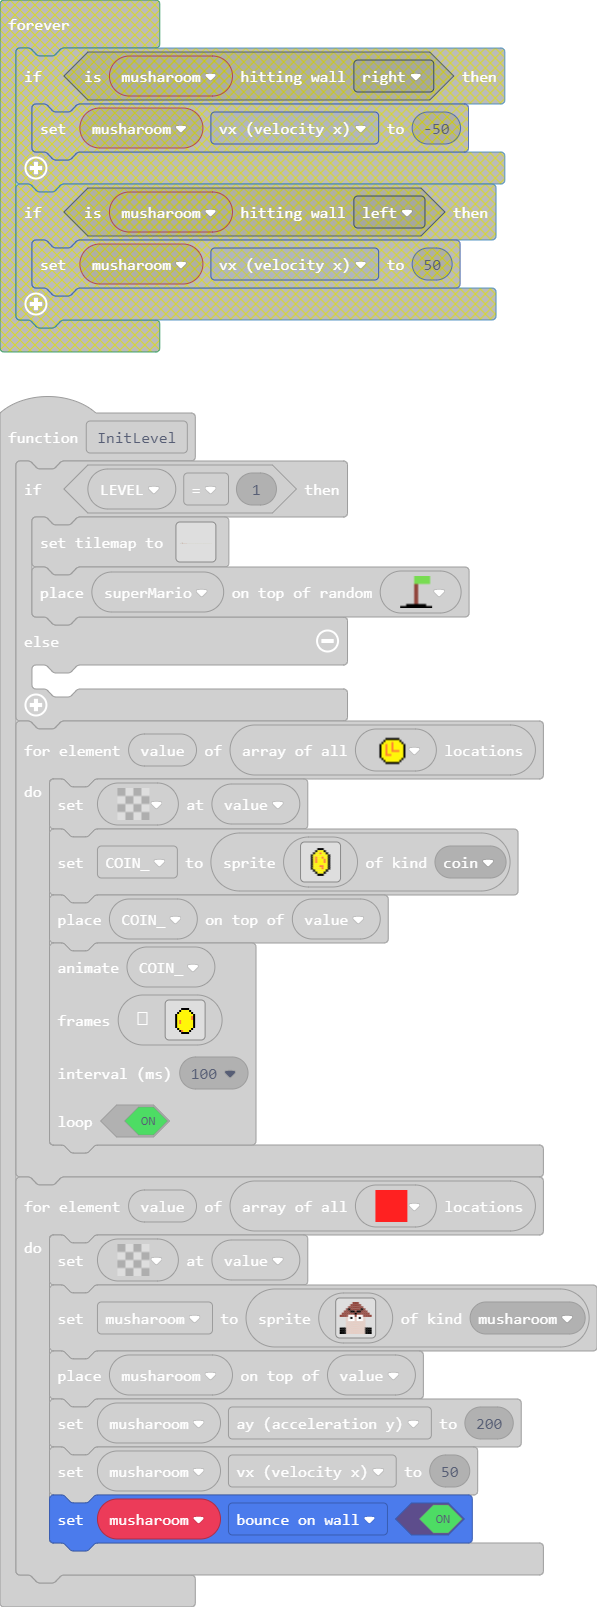
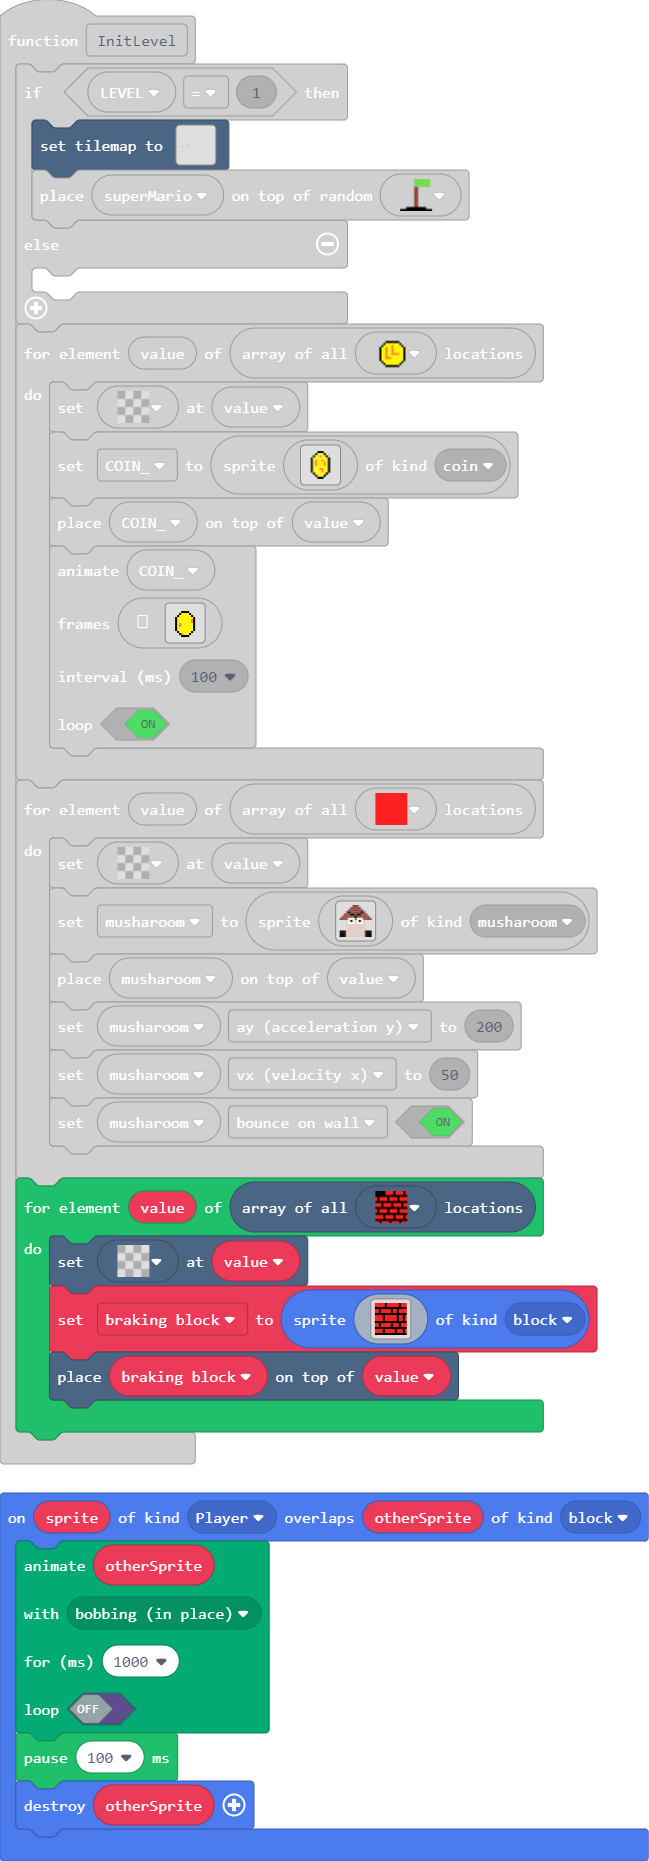
started blocks

diff --git a/main.ts b/main.ts
@@ -1,6 +1,7 @@
 namespace SpriteKind {
     export const coin = SpriteKind.create()
     export const musharoom = SpriteKind.create()
+    export const block = SpriteKind.create()
 }
 namespace myTiles {
     //% blockIdentity=images._tile
@@ -98,6 +99,25 @@ f f f f f f f f f f f f f f f f
 2 2 2 2 2 2 2 2 2 2 2 2 2 2 2 2 
 2 2 2 2 2 2 2 2 2 2 2 2 2 2 2 2 
 `
+    //% blockIdentity=images._tile
+    export const tile5 = img`
+f f f f f 2 2 2 2 f 2 2 2 2 f 2 
+f f f f f 2 2 2 2 f 2 2 2 2 f 2 
+f f f f f f f f f f f f f f f f 
+2 f 2 2 2 2 f 2 2 2 2 f 2 2 2 2 
+2 f 2 2 2 2 f 2 2 2 2 f 2 2 2 2 
+f f f f f f f f f f f f f f f f 
+2 2 2 f 2 2 2 2 f 2 2 2 2 f 2 2 
+2 2 2 f 2 2 2 2 f 2 2 2 2 f 2 2 
+f f f f f f f f f f f f f f f f 
+2 f 2 2 2 2 f 2 2 2 2 f 2 2 2 2 
+2 f 2 2 2 2 f 2 2 2 2 f 2 2 2 2 
+f f f f f f f f f f f f f f f f 
+2 2 2 2 f 2 2 2 2 f 2 2 2 2 f 2 
+2 2 2 2 f 2 2 2 2 f 2 2 2 2 f 2 
+f f f f f f f f f f f f f f f f 
+2 2 f 2 2 2 2 f 2 2 2 2 f 2 2 2 
+`
 }
 sprites.onOverlap(SpriteKind.Player, SpriteKind.coin, function (sprite, otherSprite) {
     otherSprite.destroy()
@@ -107,6 +127,16 @@ controller.A.onEvent(ControllerButtonEvent.Pressed, function () {
     if (superMario.vy == 0) {
         superMario.vy = -115
     }
+})
+sprites.onOverlap(SpriteKind.Player, SpriteKind.block, function (sprite, otherSprite) {
+    animation.runMovementAnimation(
+    otherSprite,
+    animation.animationPresets(animation.bobbing),
+    1000,
+    false
+    )
+    pause(100)
+    otherSprite.destroy()
 })
 sprites.onOverlap(SpriteKind.Player, SpriteKind.musharoom, function (sprite, otherSprite) {
     if (superMario.y > otherSprite.y) {
@@ -118,7 +148,7 @@ sprites.onOverlap(SpriteKind.Player, SpriteKind.musharoom, function (sprite, oth
 function InitLevel () {
     if (LEVEL == 1) {
         tiles.setTilemap(tiles.createTilemap(
-            hex`640017000000000000000000000000000000000000000000000000000000000000000000000000000000000000000000000000000000000000000000000000000000000000000000000000000000000000000000000000000000000000000000000000000000000000000000000000000000000000000000000000000000000000000000000000000000000000000000000000000000000000000000000000000000000000000000000000000000000000000000000000000000000000000000000000000000000000000000000000000000000000000000000000000000000000000000000000000000000000000000000000000000000000000000000000000000000000000000000000000000000000000000000000000000000000000000000000000000000000000000000000000000000000000000000000000000000000000000000000000000000000000000000000000000000000000000000000000000000000000000000000000000000000000000000000000000000000000000000000000000000000000000000000000000000000000000000000000000000000000000000000000000000000000000000000000000000000000000000000000000000000000000000000000000000000000000000000000000000000000000000000000000000000000000000000000000000000000000000000000000000000000000000000000000000000000000000000000000000000000000000000000000000000000000000000000000000000000000000000000000000000000000000000000000000000000000000000000000000000000000000000000000000000000000000000000000000000000000000000000000000000000000000000000000000000000000000000000000000000000000000000000000000000000000000000000000000000000000000000000000000000000000000000000000000000000000000000000000000000000000000000000000000000000000000000000000000000000000000000000000000000000000000000000000000000000000000000000000000000000000000000000000000000000000000000000000000000000000000000000000000000000000000000000000000000000000000000000000000000000000000000000000000000000000000000000000000000000000000000000000000000000000000000000000000000000000000000000000000000000000000000000000000000000000000000000000000000000000000000000000000000000000000000000000000000000000000000000000000000000000000000000000000000000000000000000000000000000000000000000000000000000000000000000000000000000000000000000000000000000000000000000000000000000000000000000000000000000000000000000000000000000000000000000000000000000000000000000000000000000000000000000000000000000000000000000000000000000000000000000000000000000000000000000000000000000000000000000000000000000000000000000000000000000000000000000000000000000000000000000000000000000000000000000000000000000000000000000000000000000000000000000000000000000000000000000000000000000000000000000000000000000000000000000000000000000000000000000000000000000000000000000000000000000000000000000000000000000000000000000000000000000000000000000000000000000000000004000000000000000000000000000000000000000000000000000000000000000000000000000000000000000000000000000000000000000000000000000000000000000000000000000000000000000000000000000000000000000000000000000000000000000000000000000000000000000000000000000000000000000000000000000000000000000000000000000000000000000000000000000000000000000000000000000000000000000000000000000000000000000000000000000000000000000200040000000000000000000000000000000000000000000000000000000000000000000000000000000000000000000000000000000000000000000000000000000000000000000000000000000000000000000000000000000000000003000000000002020200040000020000050000020000000000000000000000000000000000000000000000000000000000000000000000000000000000000000000000000000000000000000000000000000000000000000000000000000000000000000010101010101010101010101010101010101010101010101010101010101010101010101010101010101010101010101010101010101010101010101010101010101010101010101010101010101010101010101010101010101010101010101010101010000000000000000000000000000000000000000000000000000000000000000000000000000000000000000000000000000000000000000000000000000000000000000000000000000000000000000000000000000000000000000000000000000000000000000000000000000000000000000000000000000000000000000000000000000000000000000000000000000000000000000000000000000000000000000000000000000000000000000000000000000000000000000000000000000000000000000000000000000000000000000000000000000000000000000000000000000000000000000000000000000000000000000000000000000000000000000000000000000000000000000000000000000000000000000000000000000000000000000000000000000000000000000000000000000000000000000000000000000000000000000000000000000000000000000000000000000000000000000000000000000000000000000000000000000000000000000000000000000000000000000000000000000000000000000000000000000000000000000000000000000000000000000000000000000000000000000000000000000000000000000000000000000000000000000000000000000000000000000000000000000000000000000000000000000000000000000`,
+            hex`640017000000000000000000000000000000000000000000000000000000000000000000000000000000000000000000000000000000000000000000000000000000000000000000000000000000000000000000000000000000000000000000000000000000000000000000000000000000000000000000000000000000000000000000000000000000000000000000000000000000000000000000000000000000000000000000000000000000000000000000000000000000000000000000000000000000000000000000000000000000000000000000000000000000000000000000000000000000000000000000000000000000000000000000000000000000000000000000000000000000000000000000000000000000000000000000000000000000000000000000000000000000000000000000000000000000000000000000000000000000000000000000000000000000000000000000000000000000000000000000000000000000000000000000000000000000000000000000000000000000000000000000000000000000000000000000000000000000000000000000000000000000000000000000000000000000000000000000000000000000000000000000000000000000000000000000000000000000000000000000000000000000000000000000000000000000000000000000000000000000000000000000000000000000000000000000000000000000000000000000000000000000000000000000000000000000000000000000000000000000000000000000000000000000000000000000000000000000000000000000000000000000000000000000000000000000000000000000000000000000000000000000000000000000000000000000000000000000000000000000000000000000000000000000000000000000000000000000000000000000000000000000000000000000000000000000000000000000000000000000000000000000000000000000000000000000000000000000000000000000000000000000000000000000000000000000000000000000000000000000000000000000000000000000000000000000000000000000000000000000000000000000000000000000000000000000000000000000000000000000000000000000000000000000000000000000000000000000000000000000000000000000000000000000000000000000000000000000000000000000000000000000000000000000000000000000000000000000000000000000000000000000000000000000000000000000000000000000000000000000000000000000000000000000000000000000000000000000000000000000000000000000000000000000000000000000000000000000000000000000000000000000000000000000000000000000000000000000000000000000000000000000000000000000000000000000000000000000000000000000000000000000000000000000000000000000000000000000000000000000000000000000000000000000000000000000020000000000000000000000000000000000000000000000000000000000000000000000000000000000000000000000000000000000000000000000000000000000000000000000000000000000000000000000000000000000000000000000000000000200000000000000000000000000000000000000000000000000000000000000000000000000000000000000000000000000000000000000000000000000000000000000000000000000000000000000000004000000000000000000000000000000000002000000000000000000000000000000000000000000000000000000000000000000000000000000000000000000000000000000000000000000000000000000000000000000000000000000000000000000000000000000000000000000000000000000060606060000000000000000000000000000000000000000000000000000000000000000000000000000000000000000000000000000000000000000000000000000000000000000000000000000000000000200040000000000000000000000000000000000000000000000000000000000000000000000000000000000000000000000000000000000000000000000000000000000000000000000000000000000000000000000000000000000000003000000000002020200040000020000050000020000000000000000000000000000000000000000000000000000000000000000000000000000000000000000000000000000000000000000000000000000000000000000000000000000000000000000010101010101010101010101010101010101010101010101010101010101010101010101010101010101010101010101010101010101010101010101010101010101010101010101010101010101010101010101010101010101010101010101010101010000000000000000000000000000000000000000000000000000000000000000000000000000000000000000000000000000000000000000000000000000000000000000000000000000000000000000000000000000000000000000000000000000000000000000000000000000000000000000000000000000000000000000000000000000000000000000000000000000000000000000000000000000000000000000000000000000000000000000000000000000000000000000000000000000000000000000000000000000000000000000000000000000000000000000000000000000000000000000000000000000000000000000000000000000000000000000000000000000000000000000000000000000000000000000000000000000000000000000000000000000000000000000000000000000000000000000000000000000000000000000000000000000000000000000000000000000000000000000000000000000000000000000000000000000000000000000000000000000000000000000000000000000000000000000000000000000000000000000000000000000000000000000000000000000000000000000000000000000000000000000000000000000000000000000000000000000000000000000000000000000000000000000000000000000000000000000`,
             img`
 . . . . . . . . . . . . . . . . . . . . . . . . . . . . . . . . . . . . . . . . . . . . . . . . . . . . . . . . . . . . . . . . . . . . . . . . . . . . . . . . . . . . . . . . . . . . . . . . . . . . 
 . . . . . . . . . . . . . . . . . . . . . . . . . . . . . . . . . . . . . . . . . . . . . . . . . . . . . . . . . . . . . . . . . . . . . . . . . . . . . . . . . . . . . . . . . . . . . . . . . . . . 
@@ -131,9 +161,9 @@ function InitLevel () {
 . . . . . . . . . . . . . . . . . . . . . . . . . . . . . . . . . . . . . . . . . . . . . . . . . . . . . . . . . . . . . . . . . . . . . . . . . . . . . . . . . . . . . . . . . . . . . . . . . . . . 
 . . . . . . . . . . . . . . . . . . . . . . . . . . . . . . . . . . . . . . . . . . . . . . . . . . . . . . . . . . . . . . . . . . . . . . . . . . . . . . . . . . . . . . . . . . . . . . . . . . . . 
 . . . . . . . . . . . . . . . . . . . . . . . . . . . . . . . . . . . . . . . . . . . . . . . . . . . . . . . . . . . . . . . . . . . . . . . . . . . . . . . . . . . . . . . . . . . . . . . . . . . . 
-. . . . . . . . . . . . . . . . . . . . . . . . . . . . . . . . . . . . . . . . . . . . . . . . . . . . . . . . . . . . . . . . . . . . . . . . . . . . . . . . . . . . . . . . . . . . . . . . . . . . 
-. . . . . . . . . . . . . . . . . . . . . . . . . . . . . . . . . . . . . . . . . . . . . . . . . . . . . . . . . . . . . . . . . . . . . . . . . . . . . . . . . . . . . . . . . . . . . . . . . . . . 
-. . . . . . . . . . . . . . . . . . . . . . . . . . . . . . . . . . . . . . . . . . . . . . . . . . . . . . . . . . . . . . . . . . . . . . . . . . . . . . . . . . . . . . . . . . . . . . . . . . . . 
+. . . . . . . . . . . . . . . . . . . . . . . . 2 . . . . . . . . . . . . . . . . . . . . . . . . . . . . . . . . . . . . . . . . . . . . . . . . . . . . . . . . . . . . . . . . . . . . . . . . . . . 
+. . . . . . . . . . . . . . . . . . . . . . . . 2 . . . . . . . . . . . . . . . . . . . . . . . . . . . . . . . . . . . . . . . . . . . . . . . . . . . . . . . . . . . . . . . . . . . . . . . . . . . 
+. . . . . . . . . . . . . . . . . . . . . . . . 2 . . . . . . . . . . . . . . . . . . . . . . . . . . . . . . . . . . . . . . . . . . . . . . . . . . . . . . . . . . . . . . . . . . . . . . . . . . . 
 . . . . . . . . . . . . . . . . . . . . . . . . . . . . . . . . . . . . . . . . . . . . . . . . . . . . . . . . . . . . . . . . . . . . . . . . . . . . . . . . . . . . . . . . . . . . . . . . . . . . 
 . . . . . . 2 . . . . . . . . . . . . . . . . . . . . . . . . . . . . . . . . . . . . . . . . . . . . . . . . . . . . . . . . . . . . . . . . . . . . . . . . . . . . . . . . . . . . . . . . . . . . . 
 . . . . . . 2 2 2 . . . . 2 . . . . . 2 . . . . . . . . . . . . . . . . . . . . . . . . . . . . . . . . . . . . . . . . . . . . . . . . . . . . . . . . . . . . . . . . . . . . . . . . . . . . . . . . 
@@ -144,7 +174,7 @@ function InitLevel () {
 . . . . . . . . . . . . . . . . . . . . . . . . . . . . . . . . . . . . . . . . . . . . . . . . . . . . . . . . . . . . . . . . . . . . . . . . . . . . . . . . . . . . . . . . . . . . . . . . . . . . 
 . . . . . . . . . . . . . . . . . . . . . . . . . . . . . . . . . . . . . . . . . . . . . . . . . . . . . . . . . . . . . . . . . . . . . . . . . . . . . . . . . . . . . . . . . . . . . . . . . . . . 
 `,
-            [myTiles.tile0,sprites.castle.tilePath2,myTiles.tile1,myTiles.tile2,myTiles.tile3,myTiles.tile4],
+            [myTiles.tile0,sprites.castle.tilePath2,myTiles.tile1,myTiles.tile2,myTiles.tile3,myTiles.tile4,myTiles.tile5],
             TileScale.Sixteen
         ))
         tiles.placeOnRandomTile(superMario, myTiles.tile2)
@@ -338,7 +368,30 @@ f f f d d d d d d d d d f f f
         musharoom.vx = 50
         musharoom.setFlag(SpriteFlag.BounceOnWall, true)
     }
+    for (let value of tiles.getTilesByType(myTiles.tile5)) {
+        tiles.setTileAt(value, myTiles.tile0)
+        braking_block = sprites.create(img`
+2 2 2 2 2 f 2 2 2 2 2 2 f 2 2 2 
+2 2 2 2 2 f 2 2 2 2 2 2 f 2 2 2 
+f f f f f f f f f f f f f f f f 
+2 2 f 2 2 2 2 2 f 2 2 f 2 2 2 2 
+2 2 f 2 2 2 2 2 f 2 2 f 2 2 2 2 
+f f f f f f f f f f f f f f f f 
+2 2 2 2 f 2 2 2 2 2 2 f 2 2 f 2 
+2 2 2 2 f 2 2 2 2 2 2 f 2 2 f 2 
+2 2 2 2 f 2 2 2 2 2 2 f 2 2 f 2 
+f f f f f f f f f f f f f f f f 
+2 2 f 2 2 2 2 2 f 2 2 2 f 2 2 2 
+2 2 f 2 2 2 2 2 f 2 2 2 f 2 2 2 
+f f f f f f f f f f f f f f f f 
+2 2 2 2 f 2 2 2 2 2 f 2 2 2 f 2 
+2 2 2 2 f 2 2 2 2 2 f 2 2 2 f 2 
+f f f f f f f f f f f f f f f f 
+`, SpriteKind.block)
+        tiles.placeOnTile(braking_block, value)
+    }
 }
+let braking_block: Sprite = null
 let musharoom: Sprite = null
 let COIN_: Sprite = null
 let LEVEL = 0
